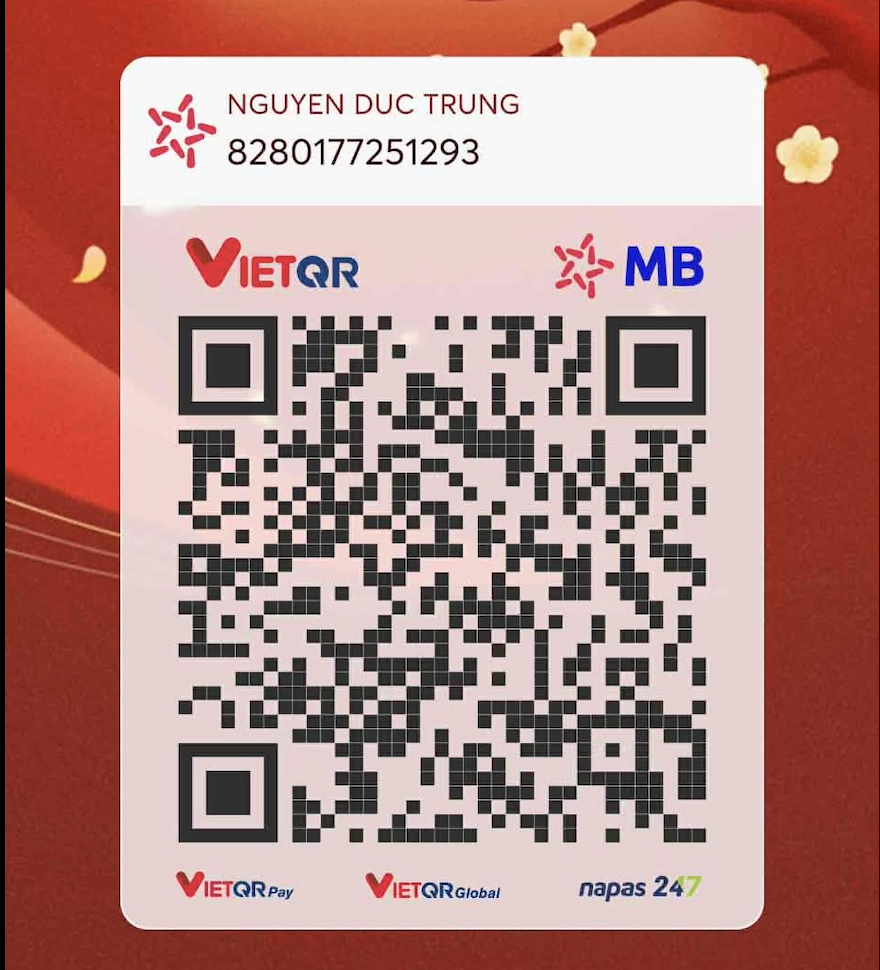
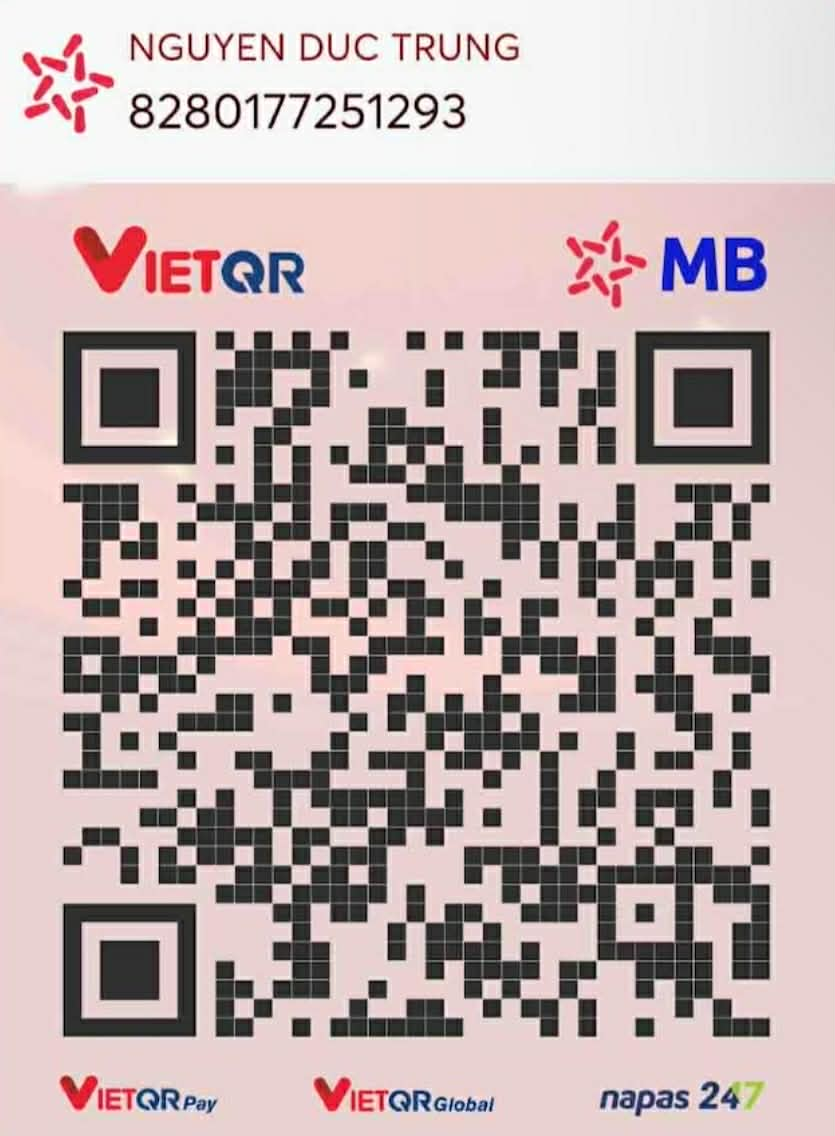
feat: done

diff --git a/index.html b/index.html
@@ -2964,8 +2964,8 @@
     }
 
     #donate .image-wrapper {
-        height: 150px;
-        width: 150px;
+        height: 220px;
+        width: 170px;
         margin: 0 auto;
         display: block;
         border-radius: unset;
@@ -2973,8 +2973,8 @@
 
     #donate .image-editor {
         overflow: hidden;
-        height: 150px;
-        width: 150px;
+        height: 220px;
+        width: 170px;
         margin: 0 auto;
         display: block;
     }
